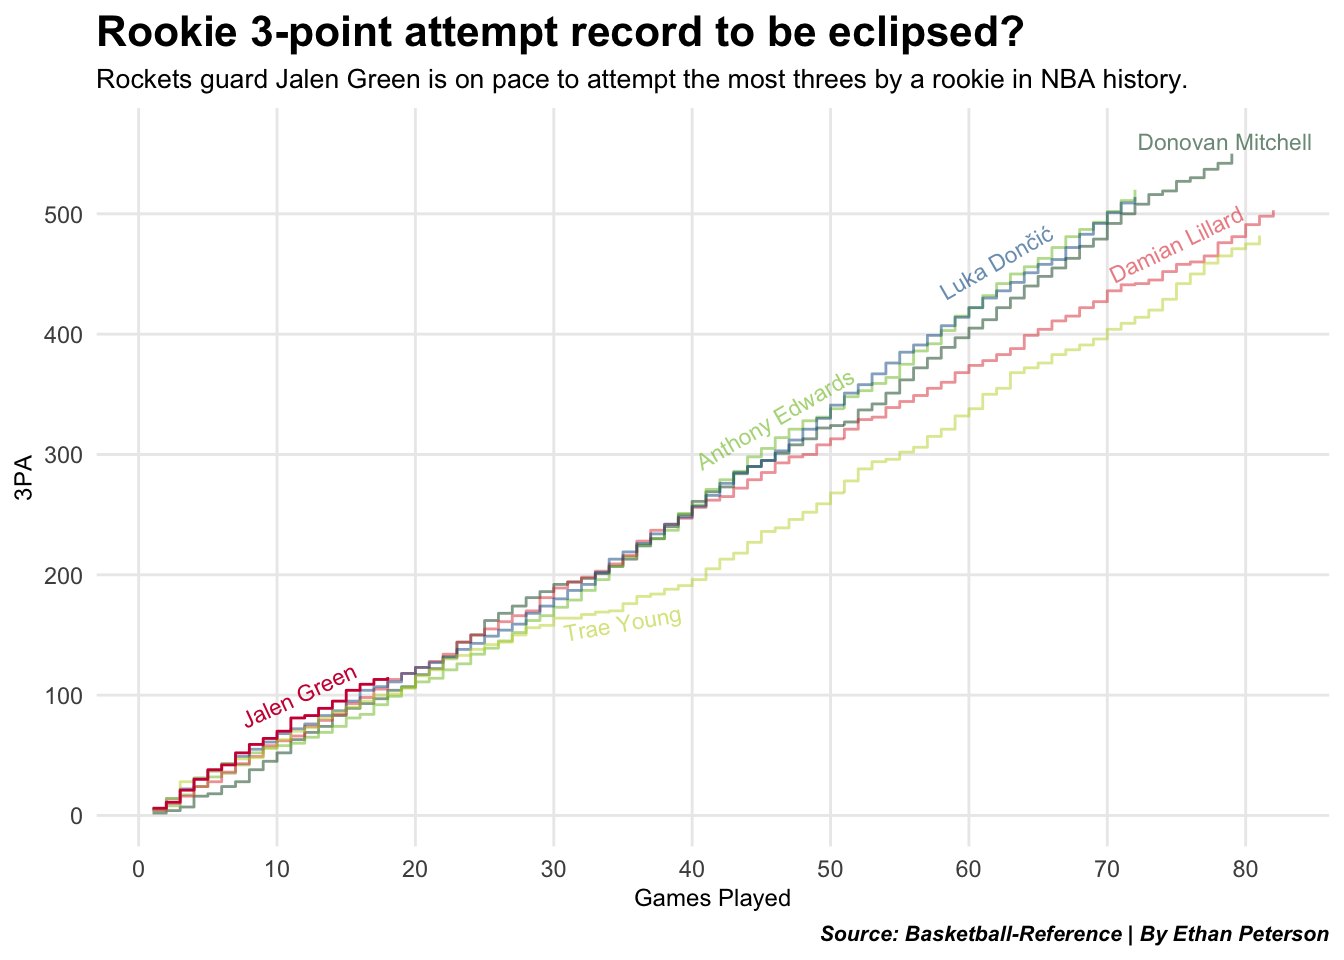
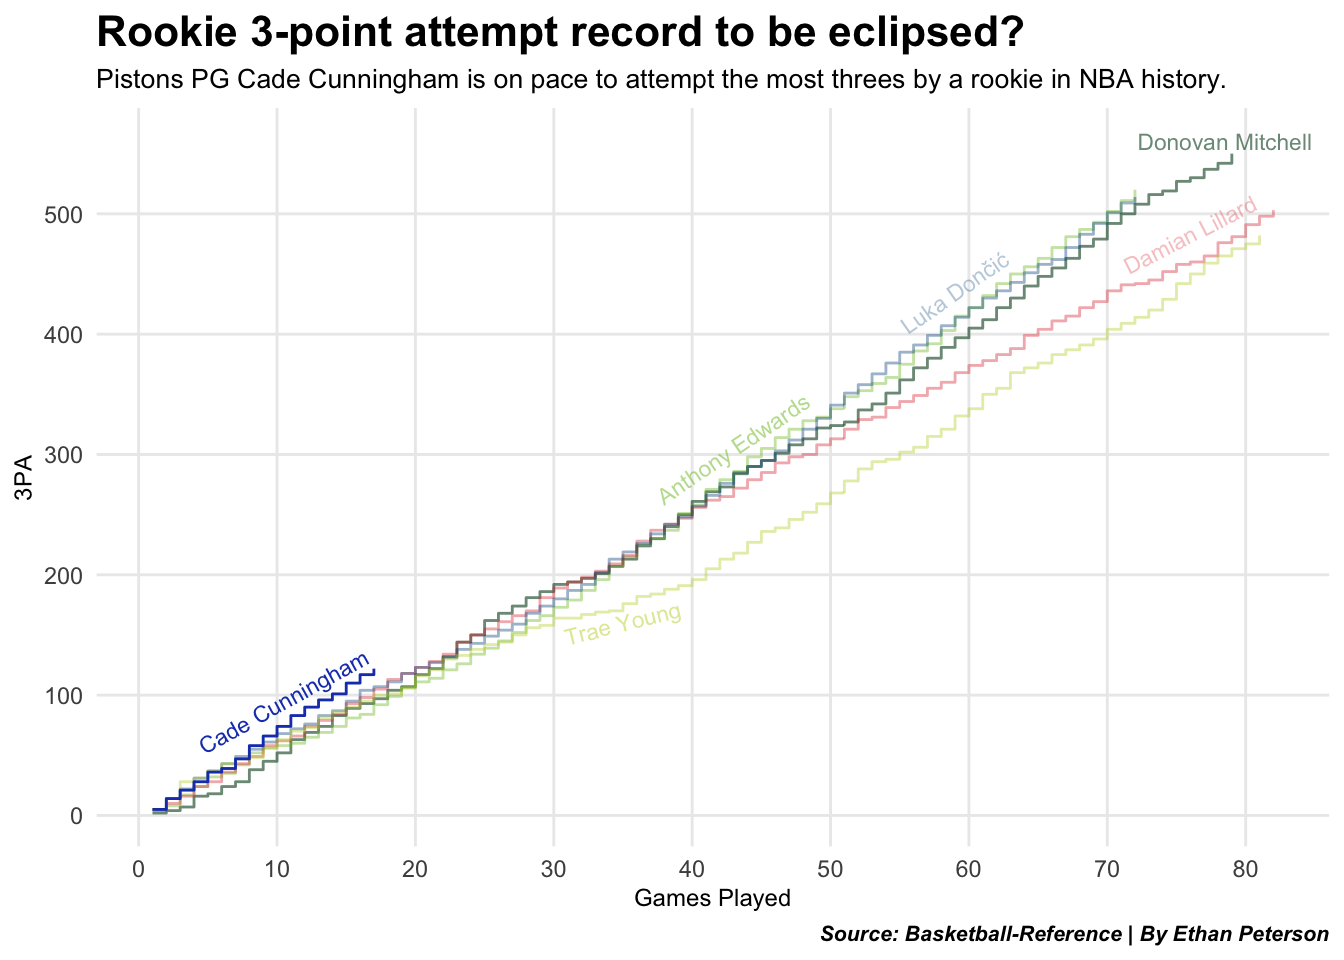
Cade Cunningham for Jalen Green, please!

diff --git a/2021/11/30/three-nba-trends-to-follow/index.html b/2021/11/30/three-nba-trends-to-follow/index.html
@@ -151,9 +151,9 @@ After being LAST in 2014-15 (14.9 3PA/game), Minnesota is FIRST this season (42.
 <p>The Rockets, on the other hand, were first in the league in five out of the eight seasons. James Harden’s time in H-town led to an absolutely insane amount of shots taken from behind the arc. The Rockets set an unfathomable record 45 3PA/game in back-to-back seasons. With Harden now gone, their attempts have been slashed.</p>
 <p>On to player 3-point shooting. The NBA’s young talent saw the surge in 3-point shooting and wanted to emulate that. In NBA history, there’s been 11 rookies who’ve logged 400+ 3PA. Eight of them debuted after Curry’s rookie season (2009-10). The Curry effect? Possibly. I’ll focus on this season’s rookie 3PA leader, Jalen Green, and compare him to the current rookie top 5 for total 3PA.</p>
 <pre class="r"><code>rookies &lt;- read_csv(&quot;~/Desktop/SPMC 350 Files/homework/data/nbathreepoint.csv&quot;) </code></pre>
-<p>The current rookie record is held by Donovan Mitchell (550 3PA). As of December 1, 2021, Jalen Green leads all rookies with 115 3PA in 18 games. Is he on pace to pass Mitchell’s record?</p>
-<pre class="r"><code>green &lt;- rookies %&gt;%
-  filter(Player == &quot;Jalen Green&quot;) %&gt;% 
+<p>The current rookie record is held by Donovan Mitchell (550 3PA). As of December 4, 2021, Cade Cunningham is 2nd among rookies with 122 3PA in 18 games (Chris Duarte is 1st, with 126 3PA, but he’s played six more games than Cunningham, a very small margin). Is he on pace to pass Mitchell’s record?</p>
+<pre class="r"><code>cade &lt;- rookies %&gt;%
+  filter(Player == &quot;Cade Cunningham&quot;) %&gt;% 
   group_by(Player) %&gt;% 
   mutate(CumThreePoint = cumsum(`3PA`))
 
@@ -183,25 +183,25 @@ young &lt;- rookies %&gt;%
 <p>Using a step chart, I’ll look at each player’s cumulative 3PA, focusing on Jalen Green. <em>Do note: we’re only 21 games into the season.</em></p>
 <pre class="r"><code>ggplot() + 
 #Player cumulative 3PA
-  geom_step(data = mitchell, aes(x = G, y = CumThreePoint, group = Player), color = &quot;#00471B&quot;, alpha = 0.5) +
-  geom_step(data = edwards, aes(x = G, y = CumThreePoint, group = Player), color = &quot;#78BE20&quot;, alpha = 0.5) +
-  geom_step(data = lillard, aes(x = G, y = CumThreePoint, group = Player), color = &quot;#E03A3E&quot;, alpha = 0.5) +
-  geom_step(data = doncic, aes(x = G, y = CumThreePoint, group = Player), color = &quot;#00538C&quot;, alpha = 0.5) +
-  geom_step(data = young, aes(x = G, y = CumThreePoint, group = Player), color = &quot;#C1D32F&quot;, alpha = 0.5) +
-  geom_step(data = green, aes(x = G, y = CumThreePoint, group = Player), color = &quot;#CE1141&quot;, alpha = 1) +
+  geom_step(data = mitchell, aes(x = G, y = CumThreePoint, group = Player), color = &quot;#00471B&quot;, alpha = 0.6) +
+  geom_step(data = edwards, aes(x = G, y = CumThreePoint, group = Player), color = &quot;#78BE20&quot;, alpha = 0.4) +
+  geom_step(data = lillard, aes(x = G, y = CumThreePoint, group = Player), color = &quot;#E03A3E&quot;, alpha = 0.4) +
+  geom_step(data = doncic, aes(x = G, y = CumThreePoint, group = Player), color = &quot;#00538C&quot;, alpha = 0.4) +
+  geom_step(data = young, aes(x = G, y = CumThreePoint, group = Player), color = &quot;#C1D32F&quot;, alpha = 0.4) +
+  geom_step(data = cade, aes(x = G, y = CumThreePoint, group = Player), color = &quot;#1D42BA&quot;, alpha = 1) +
 #Player labels  
-  geom_text(aes(x = 11.6, y = 100), label = &quot;Jalen Green&quot;, color = &quot;#CE1141&quot;, size = 3, alpha = 1, angle = 25) +
+  geom_text(aes(x = 10.5, y = 95), label = &quot;Cade Cunningham&quot;, color = &quot;#1D42BA&quot;, size = 3, alpha = 1, angle = 29) +
   geom_text(aes(x = 78.5, y = 560), label = &quot;Donovan Mitchell&quot;, color = &quot;#00471B&quot;, size = 3, alpha = 0.6) +
-  geom_text(aes(x = 35, y = 160), label = &quot;Trae Young&quot;, color = &quot;#C1D32F&quot;, size = 3, alpha = 0.6, angle = 10) +
-  geom_text(aes(x = 46, y = 330), label = &quot;Anthony Edwards&quot;, color = &quot;#78BE20&quot;, size = 3, alpha = 0.6, angle = 30) +
-  geom_text(aes(x = 75, y = 475), label = &quot;Damian Lillard&quot;, color = &quot;#E03A3E&quot;, size = 3, alpha = 0.6, angle = 26) +
-  geom_text(aes(x = 62, y = 460), label = &quot;Luka Dončić&quot;, color = &quot;#00538C&quot;, size = 3, alpha = 0.6, angle = 30) +
+  geom_text(aes(x = 35, y = 160), label = &quot;Trae Young&quot;, color = &quot;#C1D32F&quot;, size = 3, alpha = 0.5, angle = 14) +
+  geom_text(aes(x = 43, y = 305), label = &quot;Anthony Edwards&quot;, color = &quot;#78BE20&quot;, size = 3, alpha = 0.5, angle = 34) +
+  geom_text(aes(x = 76, y = 483), label = &quot;Damian Lillard&quot;, color = &quot;#E03A3E&quot;, size = 3, alpha = 0.3, angle = 27) +
+  geom_text(aes(x = 59, y = 435), label = &quot;Luka Dončić&quot;, color = &quot;#00538C&quot;, size = 3, alpha = 0.3, angle = 35) +
   theme_minimal() +
   scale_y_continuous(breaks = seq(0,500, by = 100)) +
   scale_x_continuous(breaks = seq(0,90, by = 10)) +
   labs(
     title = &quot;Rookie 3-point attempt record to be eclipsed?&quot;,
-    subtitle = &quot;Rockets guard Jalen Green is on pace to attempt the most threes by a rookie in NBA history.&quot;,
+    subtitle = &quot;Pistons PG Cade Cunningham is on pace to attempt the most threes by a rookie in NBA history.&quot;,
     caption=&quot;Source: Basketball-Reference | By Ethan Peterson&quot;,
     x = &quot;Games Played&quot;,
     y = &quot;3PA&quot;) +
@@ -213,7 +213,7 @@ young &lt;- rookies %&gt;%
     panel.grid.minor = element_blank()
     )</code></pre>
 <p><img src="/2021/11/30/three-nba-trends-to-follow/index_files/figure-html/unnamed-chunk-10-1.png" width="672" />
-Jalen Green is on pace to get awfully close to the record. His 115 3PA is ahead of Mitchell’s 104 3PA through 18 games. His 3-point percentage is lackluster, though (an abysmal 28%). The current top 5 rookies all shot above 32%.</p>
+Cunningham is easily on pace to beat Donovan Mitchell. His 122 3PA is ahead of Mitchell’s 97 3PA through 18 games. His 3-point percentage is amendable, though (29%). The current top 5 rookies all shot above 32%.</p>
 <p>Final metric, how do basketball teams win games? Dean Oliver identified what he called the “Four Factors of Basketball Success.” Shooting, turnovers, rebounding, and free throws. He weighted them in order of importance: shooting (40%), turnovers (25%), rebounding (20%), and free throws (15%).</p>
 <p>Shooting is measured with Effective Field Goal Percentage (eFG%), turnovers: Turnover Percentage (TOV%), rebounding: Offensive and Defensive Rebound Percentage (ORB% and DRB%), and free throws by how often a team gets to the line and how often they make them – Free Throws per Field Goal Attempt (FT/FGA).</p>
 <p>Because basketball is an offensive &amp; defensive game, Oliver’s theory can include up to eight factors. Our data has season stats of every NBA championship team since the 1979-80 season (when TOV% was first implemented). I’ll be selecting only the needed stats.</p>
@@ -401,12 +401,12 @@ Lastly, mutating the final metric, <strong>FourFactorScore</strong>, which takes
     locations = cells_body(
       rows = Team == &quot;Golden State Warriors&quot;)
     )</code></pre>
-<div id="mjbcjpnmam" style="overflow-x:auto;overflow-y:auto;width:auto;height:auto;">
+<div id="ilgjovayyq" style="overflow-x:auto;overflow-y:auto;width:auto;height:auto;">
 <style>html {
   font-family: -apple-system, BlinkMacSystemFont, 'Segoe UI', Roboto, Oxygen, Ubuntu, Cantarell, 'Helvetica Neue', 'Fira Sans', 'Droid Sans', Arial, sans-serif;
 }
 
-#mjbcjpnmam .gt_table {
+#ilgjovayyq .gt_table {
   display: table;
   border-collapse: collapse;
   margin-left: auto;
@@ -431,7 +431,7 @@ Lastly, mutating the final metric, <strong>FourFactorScore</strong>, which takes
   border-left-color: #D3D3D3;
 }
 
-#mjbcjpnmam .gt_heading {
+#ilgjovayyq .gt_heading {
   background-color: #FFFFFF;
   text-align: center;
   border-bottom-color: #FFFFFF;
@@ -443,7 +443,7 @@ Lastly, mutating the final metric, <strong>FourFactorScore</strong>, which takes
   border-right-color: #D3D3D3;
 }
 
-#mjbcjpnmam .gt_title {
+#ilgjovayyq .gt_title {
   color: #333333;
   font-size: 125%;
   font-weight: initial;
@@ -453,7 +453,7 @@ Lastly, mutating the final metric, <strong>FourFactorScore</strong>, which takes
   border-bottom-width: 0;
 }
 
-#mjbcjpnmam .gt_subtitle {
+#ilgjovayyq .gt_subtitle {
   color: #333333;
   font-size: 85%;
   font-weight: initial;
@@ -463,13 +463,13 @@ Lastly, mutating the final metric, <strong>FourFactorScore</strong>, which takes
   border-top-width: 0;
 }
 
-#mjbcjpnmam .gt_bottom_border {
+#ilgjovayyq .gt_bottom_border {
   border-bottom-style: none;
   border-bottom-width: 2px;
   border-bottom-color: #D3D3D3;
 }
 
-#mjbcjpnmam .gt_col_headings {
+#ilgjovayyq .gt_col_headings {
   border-top-style: none;
   border-top-width: 2px;
   border-top-color: #D3D3D3;
@@ -484,7 +484,7 @@ Lastly, mutating the final metric, <strong>FourFactorScore</strong>, which takes
   border-right-color: #D3D3D3;
 }
 
-#mjbcjpnmam .gt_col_heading {
+#ilgjovayyq .gt_col_heading {
   color: #333333;
   background-color: #FFFFFF;
   font-size: 100%;
@@ -504,7 +504,7 @@ Lastly, mutating the final metric, <strong>FourFactorScore</strong>, which takes
   overflow-x: hidden;
 }
 
-#mjbcjpnmam .gt_column_spanner_outer {
+#ilgjovayyq .gt_column_spanner_outer {
   color: #333333;
   background-color: #FFFFFF;
   font-size: 100%;
@@ -516,15 +516,15 @@ Lastly, mutating the final metric, <strong>FourFactorScore</strong>, which takes
   padding-right: 4px;
 }
 
-#mjbcjpnmam .gt_column_spanner_outer:first-child {
+#ilgjovayyq .gt_column_spanner_outer:first-child {
   padding-left: 0;
 }
 
-#mjbcjpnmam .gt_column_spanner_outer:last-child {
+#ilgjovayyq .gt_column_spanner_outer:last-child {
   padding-right: 0;
 }
 
-#mjbcjpnmam .gt_column_spanner {
+#ilgjovayyq .gt_column_spanner {
   border-bottom-style: none;
   border-bottom-width: 2px;
   border-bottom-color: #D3D3D3;
@@ -536,7 +536,7 @@ Lastly, mutating the final metric, <strong>FourFactorScore</strong>, which takes
   width: 100%;
 }
 
-#mjbcjpnmam .gt_group_heading {
+#ilgjovayyq .gt_group_heading {
   padding: 8px;
   color: #333333;
   background-color: #FFFFFF;
@@ -558,7 +558,7 @@ Lastly, mutating the final metric, <strong>FourFactorScore</strong>, which takes
   vertical-align: middle;
 }
 
-#mjbcjpnmam .gt_empty_group_heading {
+#ilgjovayyq .gt_empty_group_heading {
   padding: 0.5px;
   color: #333333;
   background-color: #FFFFFF;
@@ -573,15 +573,15 @@ Lastly, mutating the final metric, <strong>FourFactorScore</strong>, which takes
   vertical-align: middle;
 }
 
-#mjbcjpnmam .gt_from_md > :first-child {
+#ilgjovayyq .gt_from_md > :first-child {
   margin-top: 0;
 }
 
-#mjbcjpnmam .gt_from_md > :last-child {
+#ilgjovayyq .gt_from_md > :last-child {
   margin-bottom: 0;
 }
 
-#mjbcjpnmam .gt_row {
+#ilgjovayyq .gt_row {
   padding-top: 8px;
   padding-bottom: 8px;
   padding-left: 5px;
@@ -600,7 +600,7 @@ Lastly, mutating the final metric, <strong>FourFactorScore</strong>, which takes
   overflow-x: hidden;
 }
 
-#mjbcjpnmam .gt_stub {
+#ilgjovayyq .gt_stub {
   color: #333333;
   background-color: #FFFFFF;
   font-size: 100%;
@@ -612,7 +612,7 @@ Lastly, mutating the final metric, <strong>FourFactorScore</strong>, which takes
   padding-left: 12px;
 }
 
-#mjbcjpnmam .gt_summary_row {
+#ilgjovayyq .gt_summary_row {
   color: #333333;
   background-color: #FFFFFF;
   text-transform: inherit;
@@ -622,7 +622,7 @@ Lastly, mutating the final metric, <strong>FourFactorScore</strong>, which takes
   padding-right: 5px;
 }
 
-#mjbcjpnmam .gt_first_summary_row {
+#ilgjovayyq .gt_first_summary_row {
   padding-top: 8px;
   padding-bottom: 8px;
   padding-left: 5px;
@@ -632,7 +632,7 @@ Lastly, mutating the final metric, <strong>FourFactorScore</strong>, which takes
   border-top-color: #D3D3D3;
 }
 
-#mjbcjpnmam .gt_grand_summary_row {
+#ilgjovayyq .gt_grand_summary_row {
   color: #333333;
   background-color: #FFFFFF;
   text-transform: inherit;
@@ -642,7 +642,7 @@ Lastly, mutating the final metric, <strong>FourFactorScore</strong>, which takes
   padding-right: 5px;
 }
 
-#mjbcjpnmam .gt_first_grand_summary_row {
+#ilgjovayyq .gt_first_grand_summary_row {
   padding-top: 8px;
   padding-bottom: 8px;
   padding-left: 5px;
@@ -652,11 +652,11 @@ Lastly, mutating the final metric, <strong>FourFactorScore</strong>, which takes
   border-top-color: #D3D3D3;
 }
 
-#mjbcjpnmam .gt_striped {
+#ilgjovayyq .gt_striped {
   background-color: rgba(128, 128, 128, 0.05);
 }
 
-#mjbcjpnmam .gt_table_body {
+#ilgjovayyq .gt_table_body {
   border-top-style: none;
   border-top-width: 2px;
   border-top-color: #D3D3D3;
@@ -665,7 +665,7 @@ Lastly, mutating the final metric, <strong>FourFactorScore</strong>, which takes
   border-bottom-color: #D3D3D3;
 }
 
-#mjbcjpnmam .gt_footnotes {
+#ilgjovayyq .gt_footnotes {
   color: #333333;
   background-color: #FFFFFF;
   border-bottom-style: none;
@@ -679,13 +679,13 @@ Lastly, mutating the final metric, <strong>FourFactorScore</strong>, which takes
   border-right-color: #D3D3D3;
 }
 
-#mjbcjpnmam .gt_footnote {
+#ilgjovayyq .gt_footnote {
   margin: 0px;
   font-size: 90%;
   padding: 4px;
 }
 
-#mjbcjpnmam .gt_sourcenotes {
+#ilgjovayyq .gt_sourcenotes {
   color: #333333;
   background-color: #FFFFFF;
   border-bottom-style: none;
@@ -699,41 +699,41 @@ Lastly, mutating the final metric, <strong>FourFactorScore</strong>, which takes
   border-right-color: #D3D3D3;
 }
 
-#mjbcjpnmam .gt_sourcenote {
+#ilgjovayyq .gt_sourcenote {
   font-size: 90%;
   padding: 4px;
 }
 
-#mjbcjpnmam .gt_left {
+#ilgjovayyq .gt_left {
   text-align: left;
 }
 
-#mjbcjpnmam .gt_center {
+#ilgjovayyq .gt_center {
   text-align: center;
 }
 
-#mjbcjpnmam .gt_right {
+#ilgjovayyq .gt_right {
   text-align: right;
   font-variant-numeric: tabular-nums;
 }
 
-#mjbcjpnmam .gt_font_normal {
+#ilgjovayyq .gt_font_normal {
   font-weight: normal;
 }
 
-#mjbcjpnmam .gt_font_bold {
+#ilgjovayyq .gt_font_bold {
   font-weight: bold;
 }
 
-#mjbcjpnmam .gt_font_italic {
+#ilgjovayyq .gt_font_italic {
   font-style: italic;
 }
 
-#mjbcjpnmam .gt_super {
+#ilgjovayyq .gt_super {
   font-size: 65%;
 }
 
-#mjbcjpnmam .gt_footnote_marks {
+#ilgjovayyq .gt_footnote_marks {
   font-style: italic;
   font-weight: normal;
   font-size: 65%;
